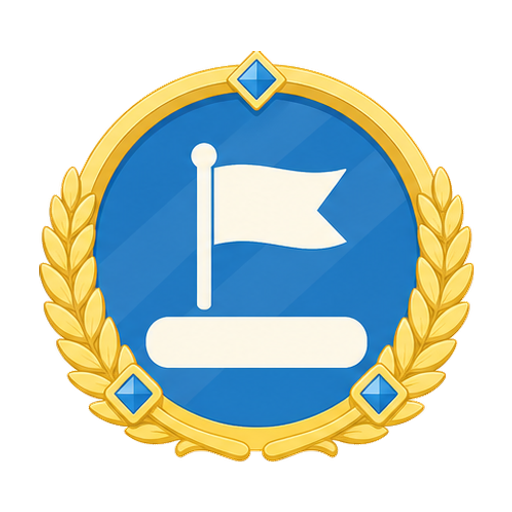
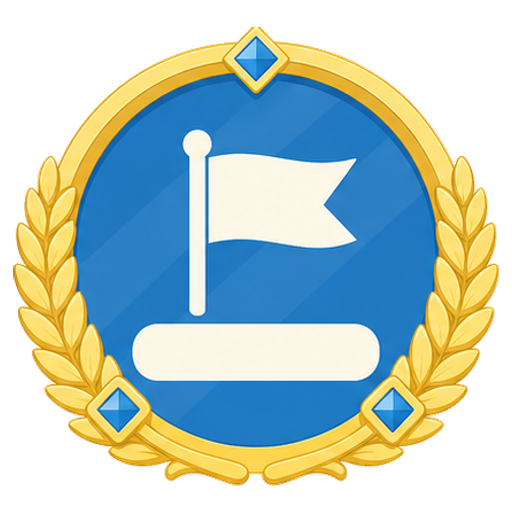
Size badge art by its enclosing circle so it fills the slot
Review feedback: the 85% framing target left every circular badge ringed by
slot background. Confirmed — badge-on-time-finish.png rendered 61.2px in the
72px slot, showing 5.4px of background on every side, and the same held for all
sixteen badges.

Scaling the bounding box to the full canvas instead would fix the discs but
clip the badges that are not discs. Measured against the circle inscribed in
each bounding box, six badges carry ink outside it:

  semester-day-45-v1     4.21% of ink
  login-40-day-v1        2.97%
  semester-halfway-v1    2.21%
  lifetime-xp-5000-v1    1.30%
  semester-complete-v1   1.01%
  on-time-finish         0.82%

Size by the artwork's enclosing circle rather than its bounding box. The slot
is round, so the enclosing circle is what has to fill it. For a disc that
circle is the disc, so it meets the slot edge exactly — the 100% fill the
review asked for, arrived at by measurement rather than by declaring a badge
class. For a shape with protrusions the circle covers them too, so they touch
the slot edge instead of being cut off. One rule, no per-badge classification,
nothing clipped.

Discs grow about 17%, the protruding shapes 3.6-12%. Reframed from the original
art on main, not from the previous pass, so nothing is resampled twice, and no
CSS changed.

Measured in the browser: rendered artwork now reaches 36.3-36.4px in the 36px
slot radius, against 30.6px before. The remaining sub-pixel overshoot is the
anti-aliased rim meeting the mask.
[…]

diff --git a/apps/web/src/lib/badge-art-framing.test.ts b/apps/web/src/lib/badge-art-framing.test.ts
@@ -6,11 +6,18 @@ import { fileURLToPath } from "node:url";
 import { inflateSync } from "node:zlib";
 
 /**
- * Badge art is rendered by the widget into a fixed circular slot with
- * `object-fit: contain`, so the browser frames each badge by its *canvas*, not
- * by the artwork inside it. Any badge whose artwork is off-centre in its own
- * canvas, or that fills a different share of it, renders visibly misaligned or
- * mis-sized next to its neighbours in the achievement trail.
+ * Badge art is rendered by the widget into a fixed *circular* slot with
+ * `object-fit: contain`, so the browser frames each badge by its canvas, not by
+ * the artwork inside it. Any badge whose artwork is off-centre in its own
+ * canvas, or that occupies a different share of it, renders visibly misaligned
+ * or mis-sized next to its neighbours in the achievement trail.
+ *
+ * Because the slot is a circle, what has to fill it is the artwork's enclosing
+ * circle rather than its bounding box. Sizing by the box leaves every disc
+ * ringed by slot background; sizing the box to the whole canvas would instead
+ * push the corners of the non-circular badges past the slot and clip them.
+ * Pinning the enclosing circle covers both: a disc meets the slot edge exactly,
+ * and a shape with protrusions touches it at its extremes with nothing cut off.
  *
  * These tests pin the framing contract every badge PNG must satisfy so new art
  * cannot reintroduce that drift.
@@ -30,16 +37,16 @@ const BADGE_DIR = join(
 
 /** Canonical badge canvas: square, and the same for every badge. */
 const CANVAS = 512;
-/** Share of the canvas the artwork's longest edge must occupy. */
-const TARGET_FILL = 0.85;
+/** The artwork's enclosing circle must fill the canvas, matching the slot. */
+const TARGET_RADIUS = CANVAS / 2;
 /** Rounding slack, in canvas pixels, for the artwork's centre point. */
 const CENTRE_TOLERANCE_PX = 1;
 /**
- * Slack, in canvas pixels, for the fill target. Slightly looser than centring:
- * resampling artwork to the target size can soften its outermost column or row
- * below the alpha threshold, costing a pixel off the measured bounding box.
+ * Slack, in canvas pixels, for the radius target. Slightly looser than
+ * centring: resampling spreads the artwork's outer edge by a fraction of a
+ * pixel either way, so the measured radius lands just above or below the mark.
  */
-const FILL_TOLERANCE_PX = 2;
+const RADIUS_TOLERANCE_PX = 2;
 /** Alpha above which a pixel counts as artwork rather than empty margin. */
 const ALPHA_THRESHOLD = 8;
 
@@ -158,6 +165,26 @@ function artworkBounds({ width, height, alpha }: DecodedAlpha) {
 }
 
 /**
+ * Distance from the centre of the canvas to the furthest visible pixel - the
+ * radius of the circle the artwork occupies, which is what the circular slot
+ * has to accommodate.
+ */
+function enclosingRadius({ width, height, alpha }: DecodedAlpha) {
+  const centreX = (width - 1) / 2;
+  const centreY = (height - 1) / 2;
+  let radius = 0;
+  for (let y = 0; y < height; y++) {
+    for (let x = 0; x < width; x++) {
+      if (alpha[y * width + x] <= ALPHA_THRESHOLD) continue;
+      const distance = Math.hypot(x - centreX, y - centreY);
+      if (distance > radius) radius = distance;
+    }
+  }
+  assert.ok(radius > 0, "badge art must contain visible pixels");
+  return radius;
+}
+
+/**
  * Connected runs of visible pixels, largest first. Eight-connected, so a shape
  * joined only at a diagonal still counts as one piece.
  */
@@ -257,17 +284,14 @@ for (const file of badgeFiles) {
     );
   });
 
-  test(`${file} artwork fills the same share of the canvas as its peers`, () => {
+  test(`${file} artwork fills the circular slot`, () => {
     const image = decodePngAlpha(readFileSync(join(BADGE_DIR, file)));
-    const bounds = artworkBounds(image);
-    const longestEdge = Math.max(
-      bounds.maxX - bounds.minX + 1,
-      bounds.maxY - bounds.minY + 1,
-    );
-    const expected = CANVAS * TARGET_FILL;
+    const radius = enclosingRadius(image);
     assert.ok(
-      Math.abs(longestEdge - expected) <= FILL_TOLERANCE_PX,
-      `${file} artwork spans ${longestEdge}px, expected ${expected}px (±${FILL_TOLERANCE_PX})`,
+      Math.abs(radius - TARGET_RADIUS) <= RADIUS_TOLERANCE_PX,
+      `${file} artwork reaches ${radius.toFixed(1)}px from centre, expected ` +
+        `${TARGET_RADIUS}px (±${RADIUS_TOLERANCE_PX}). Short of it leaves a ring of ` +
+        `slot background around the badge; past it, the slot clips the artwork.`,
     );
   });
 }

diff --git a/docs/dev-workflow.md b/docs/dev-workflow.md
@@ -230,17 +230,27 @@ apps/web/public/assets/badges/  — achievement art
 
 #### Badge framing contract
 
-The widget drops each badge into a fixed circular slot with `object-fit: contain`, so the
-browser frames the art by its **canvas**, not by the artwork inside it. Art that sits
-off-centre in its own canvas, or that fills a different share of it, renders visibly
+The widget drops each badge into a fixed **circular** slot with `object-fit: contain`, so
+the browser frames the art by its **canvas**, not by the artwork inside it. Art that sits
+off-centre in its own canvas, or that occupies a different share of it, renders visibly
 misaligned or mis-sized next to its neighbours in the achievement trail. Every file in
 `apps/web/public/assets/badges/` must therefore be:
 
 - a 512×512 RGBA PNG (transparent margin, never an opaque backdrop square),
-- centred — the artwork's alpha bounding box centred on the canvas, and
-- uniformly sized — the bounding box's longest edge spanning 85% of the canvas.
+- centred — the artwork's alpha bounding box centred on the canvas,
+- uniformly sized — the artwork's **enclosing circle** filling that canvas, and
+- whole — no detached specks sitting outside the artwork's body.
 
-`apps/web/src/lib/badge-art-framing.test.ts` enforces all three, so new badge art fails CI
+Size by the enclosing circle, not the bounding box. The slot is round: sizing by the box
+leaves every circular badge ringed by slot background, while stretching the box to the
+whole canvas pushes the corners of the non-circular badges past the slot and clips them.
+Pinning the enclosing circle covers both — a disc meets the slot edge exactly, and a shape
+with protrusions touches it at its extremes with nothing cut off.
+
+Reframe from the original art. Never compensate in CSS: the slot is shared by every badge,
+so scaling there to fix one shape clips the others.
+
+`apps/web/src/lib/badge-art-framing.test.ts` enforces all four, so new badge art fails CI
 until it is framed to match.
 
 ### Where assets live, and when that changes
